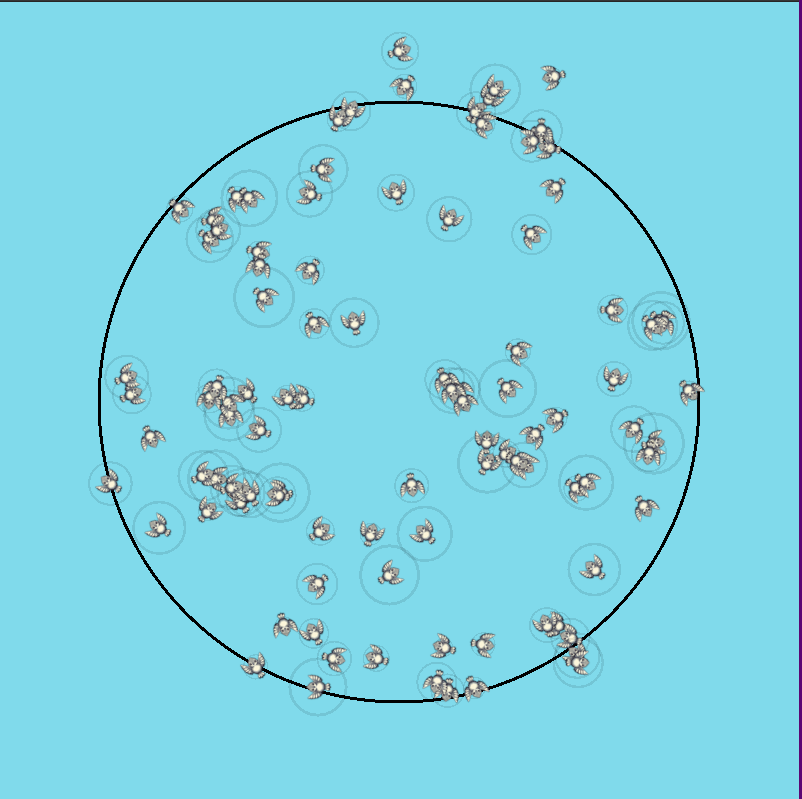
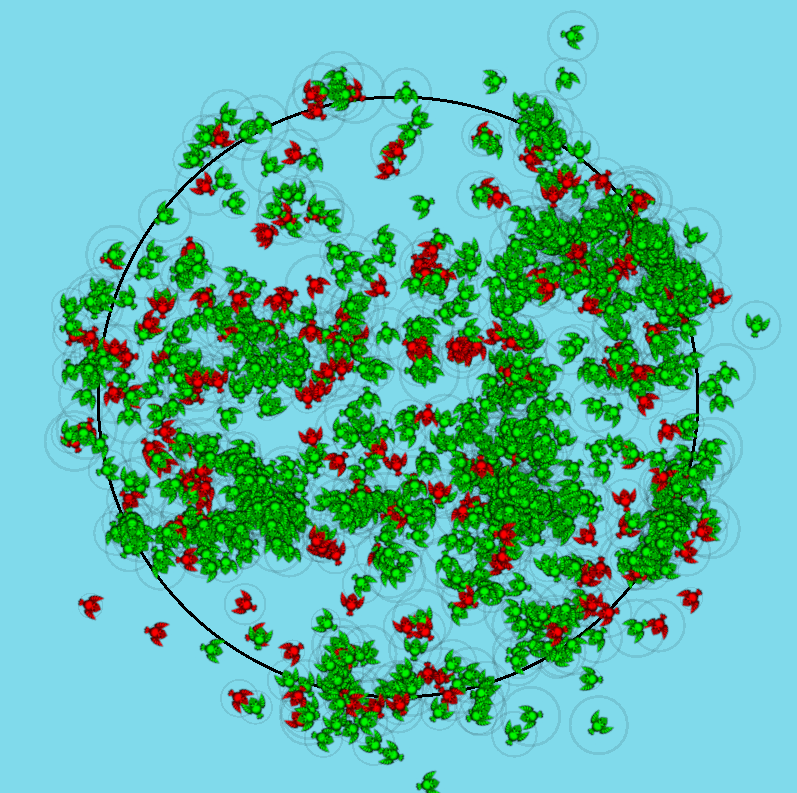
Add Predator & Prey species with basic attack/defend rules

diff --git a/src/boi.rs b/src/boi.rs
@@ -1,12 +1,19 @@
 use std::{f32::consts::PI, ops::Sub};
 
 use geo_index::kdtree::KDTreeIndex;
-use rand::{prelude::Distribution, Rng};
+use rand::{prelude::Distribution, seq::SliceRandom, Rng};
 
 use crate::{entity::EntityTemplate, strategy::Strategy, vec::Vec2};
 
+#[derive(Debug, Clone, Copy, PartialEq, Eq)]
+pub enum Species {
+    Predator,
+    Prey,
+}
+
 #[derive(Debug)]
 pub struct Boi {
+    pub species: Species,
     pub position: Vec2,
     pub direction: f32, // radians
     pub speed: f32,
@@ -34,12 +41,16 @@ impl<D: Distribution<f32>> EntityTemplate for BoiTemplate<D> {
     type Entity = Boi;
 
     fn spawn<R: Rng>(&self, rng: &mut R, position: &Vec2, facing: f32) -> Self::Entity {
+        let choices = [(1., Species::Predator), (5., Species::Prey)];
+        let choice = choices.choose_weighted(rng, |item| item.0).unwrap().1;
+
         Boi {
             position: *position,
             direction: facing,
             speed: self.speed.sample(rng),
             vision: self.vision.sample(rng),
             turning_speed: self.turning_speed.sample(rng),
+            species: choice,
         }
     }
 }
@@ -68,37 +79,71 @@ impl Strategy for Boi {
             // Within some distance
             .collect::<Vec<_>>();
 
+        // Split bois into friends & foes
+        let (friends, enemies) =
+            nearbois
+                .into_iter()
+                .fold((vec![], vec![]), |(mut friends, mut enemies), boi| {
+                    if boi.species == self.species {
+                        friends.push(boi);
+                    } else {
+                        enemies.push(boi);
+                    }
+
+                    (friends, enemies)
+                });
+
         // Calculate the ideal vector for each thing. Each of them should be a unit vector
         // reprenting a direction to go in
 
         // Cache distances - todo: use result of query instead if crate maintainer implements it!
-        let distances = nearbois
+        let friend_distances = friends
+            .iter()
+            .map(|boi| self.position.distance(&boi.position))
+            .collect::<Vec<_>>();
+        let enemy_distances = enemies
             .iter()
             .map(|boi| self.position.distance(&boi.position))
             .collect::<Vec<_>>();
 
         // Separation - Steer away from nearby bois - weight = 1 / distance
-        let separation = nearbois
+        let separation = friends
             .iter()
             .map(|boi| self.position.sub(&boi.position).normalise())
-            .zip(&distances)
+            .zip(&friend_distances)
             .map(|(boi, distance)| boi.div(*distance))
             .reduce(|a, b| a.add(&b))
             .map(|v| v.normalise());
 
         // Alignment - Align direction with average of nearby bois - weight = constant
-        let alignment = nearbois
+        let alignment = friends
             .iter()
             .map(|boi| boi.direction_vector())
             .reduce(|a, b| a.add(&b))
             .map(|v| v.normalise());
 
         // Cohesion - Steer towards the centre of gravity of nearbois
-        let cohesion = nearbois
+        let cohesion = friends
             .iter()
-            .map(|boi| boi.position.div(nearbois.len() as f32))
+            .map(|boi| boi.position.div(friends.len() as f32))
             .reduce(|a, b| a.add(&b))
             .map(|centre_of_gravity| centre_of_gravity.sub(&self.position).normalise());
+
+        // Attack - Steer towards the nearest prey boi
+        let attack = enemy_distances
+            .iter()
+            .zip(&enemies)
+            .filter(|(_, boi)| boi.species == Species::Prey)
+            .min_by(|(distance1, _), (distance2, _)| distance1.total_cmp(distance2))
+            .map(|(_, boi)| boi.position.sub(&self.position).normalise());
+
+        // Defend - Steer away from the nearest predator boi
+        let defend = enemy_distances
+            .iter()
+            .zip(&enemies)
+            .filter(|(_, boi)| boi.species == Species::Predator)
+            .min_by(|(distance1, _), (distance2, _)| distance1.total_cmp(distance2))
+            .map(|(_, boi)| self.position.sub(&boi.position).normalise());
 
         // Don't escape the arena - Steer towards centre of arena if we're too far away.
         // Weight = nothing until we're close to the edge, then ramps up exponentially
@@ -123,6 +168,20 @@ impl Strategy for Boi {
                         .max(0.)
                         .powf(1.1),
                 )
+            }),
+            attack.map(|x| {
+                x.mul(if self.species == Species::Predator {
+                    5. // Predators always chase pray as top priority
+                } else {
+                    0.
+                })
+            }),
+            defend.map(|x| {
+                x.mul(if self.species == Species::Prey {
+                    5. // Prey always run away from predators as top priority
+                } else {
+                    0.
+                })
             }),
         ]
         .into_iter()

diff --git a/src/game.rs b/src/game.rs
@@ -1,5 +1,5 @@
 use crate::{
-    boi::{Boi, BoiTemplate},
+    boi::{Boi, BoiTemplate, Species},
     nest::Nest,
     render::{Assets, RenderState},
     strategy::Strategy,
@@ -158,7 +158,12 @@ impl EventHandler for MainState {
                         .scale([
                             10. * self.render.screen_scale / bbox.x,
                             10. * self.render.screen_scale / bbox.y,
-                        ]),
+                        ])
+                        // Change the colour depending on the species
+                        .color(match boi.species {
+                            Species::Predator => Color::RED,
+                            Species::Prey => Color::GREEN,
+                        }),
                 );
 
                 // Debug - boi vision

diff --git a/readme.md b/readme.md
@@ -15,9 +15,13 @@ Each Boi is has randomly generated attributes within some constraints:
 - Turning speed: How quickly can the turn around
 - They also care about each of the rules above differently
 
+There's two species of Boi:
+- Predator: Has an extra top-priority rule: Go after the nearest prey
+- Prey: Has extra top-priority rule: Run away from nearest predator
+
 # Roadmap
 ### Features
-- Different Boi types - eg. predator & prey, different species with distinct strategies
+- Different Boi types - eg. ~predator & prey~, different species with distinct strategies
 - Lifecycles - death & breeding
 - World interaction - Eg. different biomes, weather, mountains that affect the Bois differently.
 
